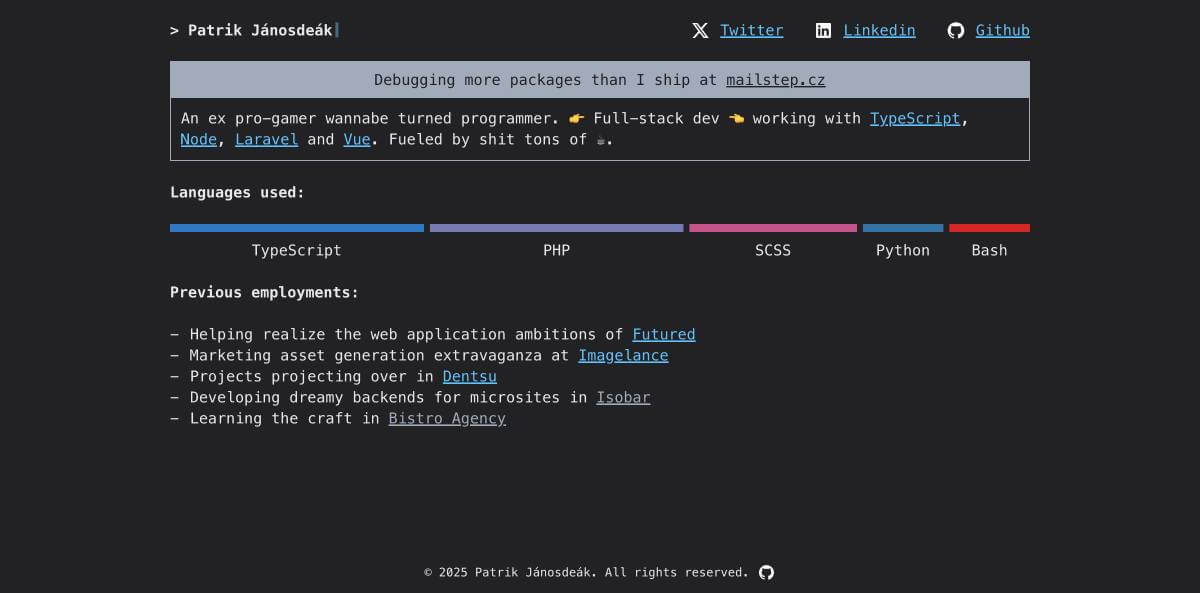
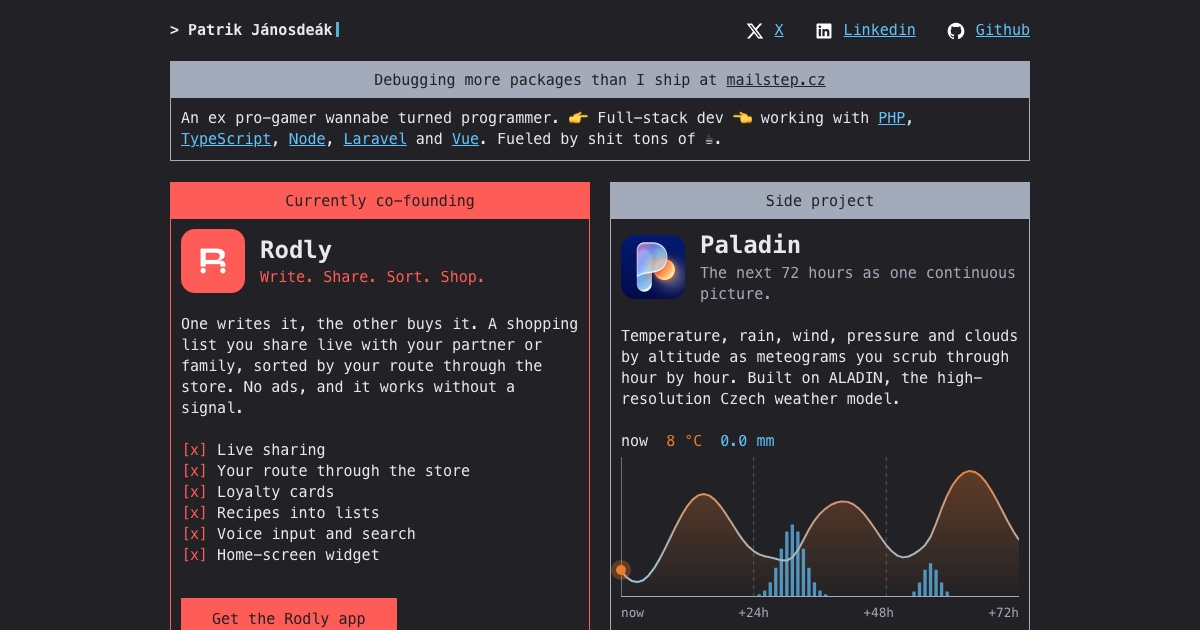
chore: updated og_image + rodly main link is install not web

diff --git a/src/components/Rodly.vue b/src/components/Rodly.vue
@@ -18,7 +18,7 @@ const features = [
     label="Currently co-founding"
     name="Rodly"
     tagline="Write. Share. Sort. Shop."
-    status="Available on the App Store and Google Play"
+    status="Free for iPhone and Android"
   >
     <template #icon>
       <img src="/rodly-icon.png" alt="" width="64" height="64" />
@@ -34,16 +34,16 @@ const features = [
     </ul>
 
     <template #actions>
-      <Link href="https://rodly.cz" rel="noopener" class="btn btn-primary" title="Rodly website">
-        Visit rodly.cz
-      </Link>
       <Link
         href="https://rodly.cz/install"
         rel="noopener"
-        class="btn btn-ghost"
+        class="btn btn-primary"
         title="Get Rodly on the App Store or Google Play"
       >
-        Get the app
+        Get the Rodly app
+      </Link>
+      <Link href="https://rodly.cz" rel="noopener" class="btn btn-ghost" title="Rodly website">
+        Visit rodly.cz
       </Link>
     </template>
   </ProjectCard>
